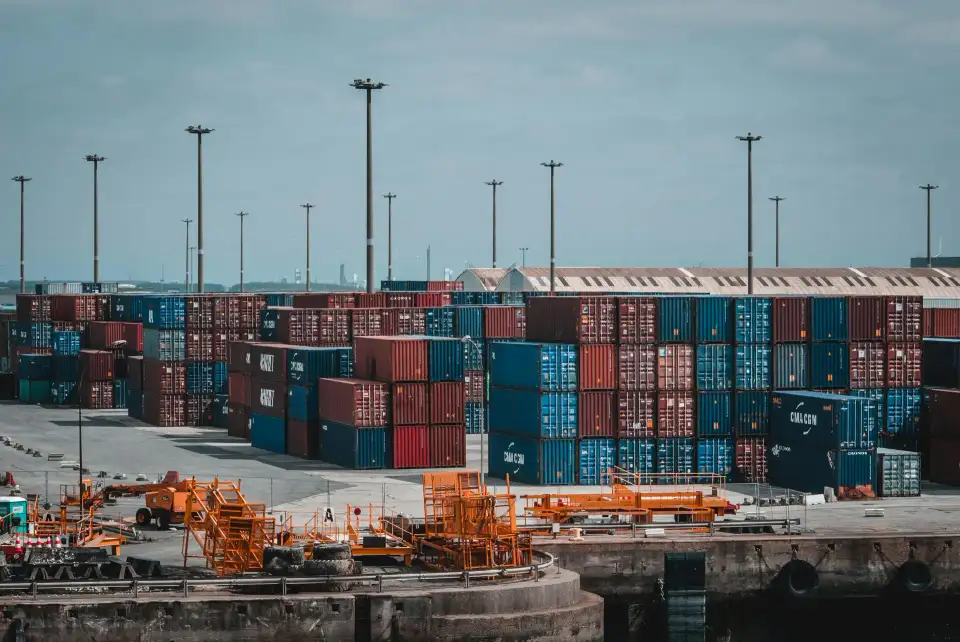
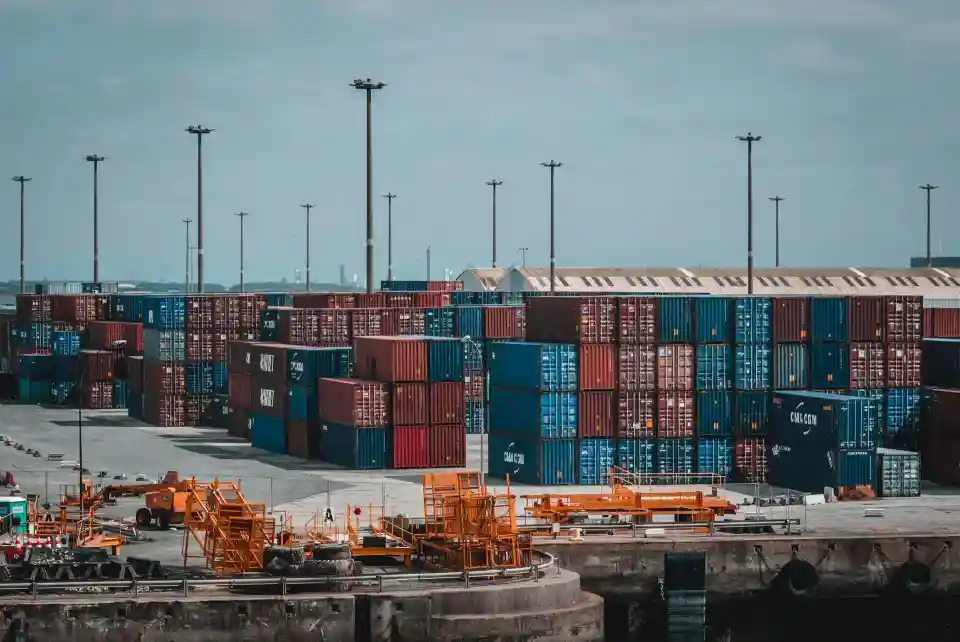
Add 800w srcset breakpoints and further image compression
- Add mission-800.webp and case_study_1-800.webp (800w) to close the gap
  between 700w and 1200w: 1x desktops (58vw ≈ 783px) now pick 800w (~27KB)
  instead of 1200w (~71KB)
- Recompress hero-960.webp q72→q25 (68KB→34KB); CSS grayscale+contrast
  filters mask artefacts on this background image
- Resize dft-logo.webp 210→110px and recompress (11KB→3KB)
- Recompress nhs.webp q80→q65
- Add Umami analytics: page views, CTA clicks, section scroll events,
  contact form submit/success, and time-on-page bucketed tracking

diff --git a/main.js b/main.js
@@ -31,6 +31,42 @@ const observer = new IntersectionObserver((entries) => {
 
 document.querySelectorAll('[id^="metrics-panel"]').forEach(panel => observer.observe(panel));
 
+// --- Analytics ---
+
+// Section scroll visibility
+const sectionNames = { philosophy: 'mission', products: 'products', contact: 'contact' };
+const sectionObserver = new IntersectionObserver((entries) => {
+  entries.forEach(entry => {
+    if (entry.isIntersecting) {
+      const id = entry.target.id;
+      window.umami?.track('section_viewed', { section: sectionNames[id] || id });
+      sectionObserver.unobserve(entry.target);
+    }
+  });
+}, { threshold: 0.3 });
+document.querySelectorAll('#philosophy, #products, #contact').forEach(el => sectionObserver.observe(el));
+
+// Time on page
+const _pageStart = Date.now();
+let _timeFired = false;
+function _timeBucket(s) {
+  if (s < 10) return '<10s';
+  if (s < 30) return '10-30s';
+  if (s < 90) return '30-90s';
+  if (s < 300) return '90s-5min';
+  return '5min+';
+}
+function _fireTimeOnPage() {
+  if (_timeFired) return;
+  _timeFired = true;
+  const seconds = Math.round((Date.now() - _pageStart) / 1000);
+  window.umami?.track('time_on_page', { duration: _timeBucket(seconds) });
+}
+document.addEventListener('visibilitychange', () => { if (document.visibilityState === 'hidden') _fireTimeOnPage(); });
+window.addEventListener('pagehide', _fireTimeOnPage);
+
+// --- End Analytics ---
+
 const toastParam = new URLSearchParams(window.location.search).get('submitted');
 if (toastParam) {
   const success = toastParam === 'success';
@@ -38,6 +74,7 @@ if (toastParam) {
   const form = document.querySelector('#contact form');
   if (form) {
     if (success) {
+      window.umami?.track('contact_form_success');
       form.innerHTML = `
         <div style="text-align:center;padding:4rem 2rem;display:flex;flex-direction:column;align-items:center;gap:1rem">
           <svg width="44" height="44" viewBox="0 0 44 44" fill="none" style="margin-bottom:.25rem">

diff --git a/index.html b/index.html
@@ -11,6 +11,7 @@
 <link rel="preload" href="https://fonts.googleapis.com/css2?family=Barlow+Condensed:wght@600;700;800&family=IBM+Plex+Mono:wght@400;500&family=IBM+Plex+Sans:wght@300;400;500;700&display=swap" as="style" onload="this.onload=null;this.rel='stylesheet'"/>
 <noscript><link href="https://fonts.googleapis.com/css2?family=Barlow+Condensed:wght@600;700;800&family=IBM+Plex+Mono:wght@400;500&family=IBM+Plex+Sans:wght@300;400;500;700&display=swap" rel="stylesheet"/></noscript>
 <link href="style.css" rel="stylesheet"/>
+<script defer src="https://analytics.umami.is/script.js" data-website-id="ca05893a-4ca9-4f5c-b33b-665103596cd4"></script>
 </head>
 <body class="bg-surface text-on-surface font-body selection:bg-primary selection:text-on-primary">
 <!-- TopNavBar (Shared Component) -->
@@ -23,7 +24,7 @@
 <a class="font-headline tracking-widest uppercase text-sm text-[#C4C7C7] hover:text-primary transition-colors" href="#philosophy">Mission</a>
 <a class="font-headline tracking-widest uppercase text-sm text-[#C4C7C7] hover:text-primary transition-colors" href="#products">Products</a>
 </div>
-<a href="#contact" class="hidden md:inline-flex font-headline tracking-widest uppercase text-sm px-6 py-2 bg-primary/10 border border-primary/30 text-primary hover:bg-primary hover:text-on-primary transition-all duration-300 active:scale-95">
+<a href="#contact" data-umami-event="cta_click" data-umami-event-location="nav" class="hidden md:inline-flex font-headline tracking-widest uppercase text-sm px-6 py-2 bg-primary/10 border border-primary/30 text-primary hover:bg-primary hover:text-on-primary transition-all duration-300 active:scale-95">
         Contact Us
     </a>
 <button id="nav-menu-btn" class="md:hidden flex items-center justify-center w-10 h-10 text-[#C4C7C7] hover:text-primary transition-colors" aria-label="Open menu" aria-expanded="false" aria-controls="mobile-nav">
@@ -40,7 +41,7 @@
     <a class="mobile-nav-link font-headline tracking-widest uppercase text-3xl text-[#C4C7C7] hover:text-primary transition-colors" href="#philosophy" tabindex="-1">Mission</a>
     <a class="mobile-nav-link font-headline tracking-widest uppercase text-3xl text-[#C4C7C7] hover:text-primary transition-colors" href="#products" tabindex="-1">Products</a>
   </nav>
-  <a href="#contact" class="mobile-nav-link mt-6 font-headline tracking-widest uppercase text-sm px-12 py-4 bg-primary text-on-primary hover:brightness-110 transition-all font-bold" tabindex="-1">
+  <a href="#contact" data-umami-event="cta_click" data-umami-event-location="mobile_nav" class="mobile-nav-link mt-6 font-headline tracking-widest uppercase text-sm px-12 py-4 bg-primary text-on-primary hover:brightness-110 transition-all font-bold" tabindex="-1">
     Get in Touch
   </a>
 </div>
@@ -62,10 +63,10 @@
 </h1>
 <p class="hero-animate text-xl text-on-surface-variant max-w-[38rem] font-light leading-relaxed">From same-day last-mile delivery to general freight, we've already proven that smarter systems save more than just time, they save your bottom line and carbon footprint.</p>
     <div class="hero-animate flex flex-wrap gap-6 pt-4">
-    <a href="#products" class="bg-primary text-on-primary px-10 py-4 font-headline font-bold uppercase tracking-widest text-sm hover:brightness-110 transition-all shadow-[0_0_40px_rgba(255,186,55,0.3)]">
+    <a href="#products" data-umami-event="cta_click" data-umami-event-location="hero_products" class="bg-primary text-on-primary px-10 py-4 font-headline font-bold uppercase tracking-widest text-sm hover:brightness-110 transition-all shadow-[0_0_40px_rgba(255,186,55,0.3)]">
                         See Our Products
                     </a>
-    <a href="#contact" class="bg-transparent border border-outline-variant hover:bg-surface-container-highest text-on-surface px-10 py-4 font-headline font-bold uppercase tracking-widest text-sm transition-all">
+    <a href="#contact" data-umami-event="cta_click" data-umami-event-location="hero_contact" class="bg-transparent border border-outline-variant hover:bg-surface-container-highest text-on-surface px-10 py-4 font-headline font-bold uppercase tracking-widest text-sm transition-all">
                         Get in Touch
                     </a>
     </div>
@@ -137,7 +138,7 @@ We deliver an instant AI Boost to supercharge your logistics to make it more sus
 </div>
 <div class="lg:col-span-7 relative order-1 lg:order-2">
 <div class="relative z-10 aspect-[4/3] overflow-hidden rounded-sm bg-surface-container">
-<img class="w-full h-full object-cover opacity-80 transition-transform duration-700 hover:scale-105" alt="Dramatic high angle shot of a semi-truck on a dark highway at night with long exposure light trails and digital grid overlay" src="assets/mission.webp" srcset="assets/mission-700.webp 700w, assets/mission-1200.webp 1200w, assets/mission.webp 1400w" sizes="(max-width: 1024px) 100vw, 58vw" loading="lazy"/>
+<img class="w-full h-full object-cover opacity-80 transition-transform duration-700 hover:scale-105" alt="Dramatic high angle shot of a semi-truck on a dark highway at night with long exposure light trails and digital grid overlay" src="assets/mission.webp" srcset="assets/mission-700.webp 700w, assets/mission-800.webp 800w, assets/mission-1200.webp 1200w, assets/mission.webp 1400w" sizes="(max-width: 1024px) 100vw, 58vw" loading="lazy"/>
 <!-- Overlay HUD Layer -->
 <div class="absolute inset-0 pointer-events-none p-8 flex flex-col justify-between">
 <div class="flex justify-between items-start">
@@ -178,14 +179,14 @@ We deliver an instant AI Boost to supercharge your logistics to make it more sus
 <h3 class="text-4xl font-headline font-bold">Anteam Route+™</h3>
 </div>
 <div class="relative aspect-video overflow-hidden border border-outline-variant/20 group">
-<img class="w-full h-full object-cover grayscale-[0.2] opacity-90 group-hover:opacity-100 transition-opacity duration-700" alt="Gritty industrial yard at night with high contrast orange lights and heavy machinery" src="assets/case_study_1.webp" srcset="assets/case_study_1-700.webp 700w, assets/case_study_1-1200.webp 1200w, assets/case_study_1.webp 1400w" sizes="(max-width: 1024px) 100vw, 58vw" loading="lazy"/>
+<img class="w-full h-full object-cover grayscale-[0.2] opacity-90 group-hover:opacity-100 transition-opacity duration-700" alt="Gritty industrial yard at night with high contrast orange lights and heavy machinery" src="assets/case_study_1.webp" srcset="assets/case_study_1-700.webp 700w, assets/case_study_1-800.webp 800w, assets/case_study_1-1200.webp 1200w, assets/case_study_1.webp 1400w" sizes="(max-width: 1024px) 100vw, 58vw" loading="lazy"/>
 <div class="absolute inset-0 pointer-events-none hud-grid opacity-20"></div>
 </div>
 <div class="prose prose-invert max-w-none">
 <p class="text-lg text-on-surface-variant font-light leading-relaxed">
                         Anteam Route+ dynamically matches same-day delivery orders with existing or planned routes on the road in real-time, to ensure faster and greener deliveries. Anteam worked closely with NHS Hospitals and a major UK pharmacy chain to validate our patent pending technology. Over 100,000 weekly deliveries by over 1000 vehicles, Anteam Route+ is able to deliver up to 65% cost savings and 85% CO2 savings per AI-matched delivery.</p>
 </div>
-<div class="flex"><a href="#contact" class="flex items-center gap-2 px-8 py-3 bg-primary/10 border border-primary/30 text-primary hover:bg-primary hover:text-on-primary transition-all duration-300 font-headline font-bold uppercase tracking-widest text-xs whitespace-nowrap">Book a Demo →</a></div>
+<div class="flex"><a href="#contact" data-umami-event="cta_click" data-umami-event-location="demo_route_plus" class="flex items-center gap-2 px-8 py-3 bg-primary/10 border border-primary/30 text-primary hover:bg-primary hover:text-on-primary transition-all duration-300 font-headline font-bold uppercase tracking-widest text-xs whitespace-nowrap">Book a Demo →</a></div>
 </div>
 <div id="metrics-panel" class="lg:col-span-5 lg:sticky lg:top-24 bg-surface-container-low border border-outline-variant/10 p-8">
 <div class="flex items-center gap-2 mb-8">
@@ -229,7 +230,7 @@ We deliver an instant AI Boost to supercharge your logistics to make it more sus
 <p class="text-lg text-on-surface-variant font-light leading-relaxed">
 Quote smarter. Win faster. Anteam developed an AI-powered quoting calculator for freight-forwarding companies. The AI tool learns from historical order data and patterns, as well as your favourite suppliers, to generate accurate, data-driven quotes, and predict suitable suppliers instantly. The solution could improve your quoting process speed by at least 50%, and most importantly, the accuracy of your quotes. This enables freight forwarders to respond to their customer enquiries faster, more consistently and with a reduced risk of human error.</p>
 </div>
-<a href="#contact" class="inline-flex items-center gap-2 px-8 py-3 bg-primary/10 border border-primary/30 text-primary hover:bg-primary hover:text-on-primary transition-all duration-300 font-headline font-bold uppercase tracking-widest text-xs">Book a Demo →</a>
+<a href="#contact" data-umami-event="cta_click" data-umami-event-location="demo_quote" class="inline-flex items-center gap-2 px-8 py-3 bg-primary/10 border border-primary/30 text-primary hover:bg-primary hover:text-on-primary transition-all duration-300 font-headline font-bold uppercase tracking-widest text-xs">Book a Demo →</a>
 </div>
 <div class="lg:col-span-6 lg:order-1 relative">
 <div class="aspect-square bg-surface-container-high rounded-sm overflow-hidden relative border border-primary/20">
@@ -254,7 +255,7 @@ Quote smarter. Win faster. Anteam developed an AI-powered quoting calculator for
 <p class="text-lg text-on-surface-variant font-light leading-relaxed">
 Anteam Reload™ analyses planned routes and delivery schedules to identify inefficient empty legs. By detecting these gaps, the system automatically matches them with suitable orders from own or other suppliers, effectively filling unused capacity and maximising vehicle utilisation. This not only reduces wasted mileage and fuel consumption but also unlocks new revenue opportunities from journeys that would previously generate no return.</p>
 </div>
-<div class="flex"><a href="#contact" class="flex items-center gap-2 px-8 py-3 bg-primary/10 border border-primary/30 text-primary hover:bg-primary hover:text-on-primary transition-all duration-300 font-headline font-bold uppercase tracking-widest text-xs whitespace-nowrap">Book a Demo →</a></div>
+<div class="flex"><a href="#contact" data-umami-event="cta_click" data-umami-event-location="demo_reload" class="flex items-center gap-2 px-8 py-3 bg-primary/10 border border-primary/30 text-primary hover:bg-primary hover:text-on-primary transition-all duration-300 font-headline font-bold uppercase tracking-widest text-xs whitespace-nowrap">Book a Demo →</a></div>
 </div>
 <div id="metrics-panel-3" class="lg:col-span-5 lg:sticky lg:top-24 bg-surface-container-low border border-outline-variant/10 p-8">
 <div class="flex items-center gap-2 mb-8">
@@ -311,7 +312,7 @@ Anteam Reload™ analyses planned routes and delivery schedules to identify inef
 </div>
 </div>
 <div class="pt-4 flex justify-center">
-<button type="submit" class="px-16 py-4 bg-primary text-on-primary font-headline font-bold uppercase tracking-widest text-xs hover:brightness-110 active:scale-95 transition-all shadow-[0_0_20px_rgba(255,186,55,0.2)]">
+<button type="submit" data-umami-event="contact_form_submit" class="px-16 py-4 bg-primary text-on-primary font-headline font-bold uppercase tracking-widest text-xs hover:brightness-110 active:scale-95 transition-all shadow-[0_0_20px_rgba(255,186,55,0.2)]">
     Book a Call
 </button>
 </div>